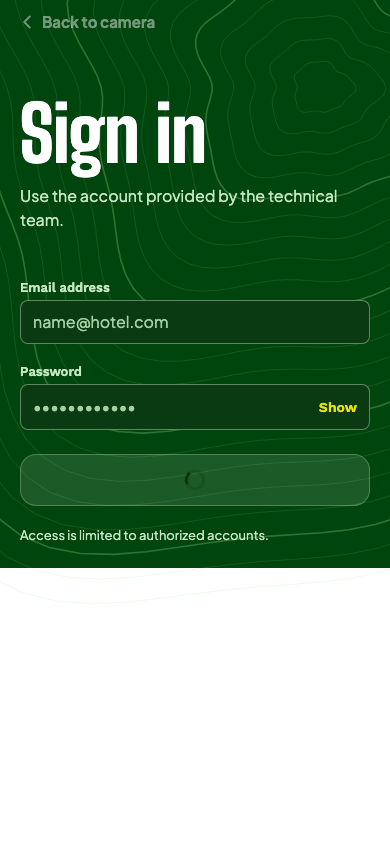
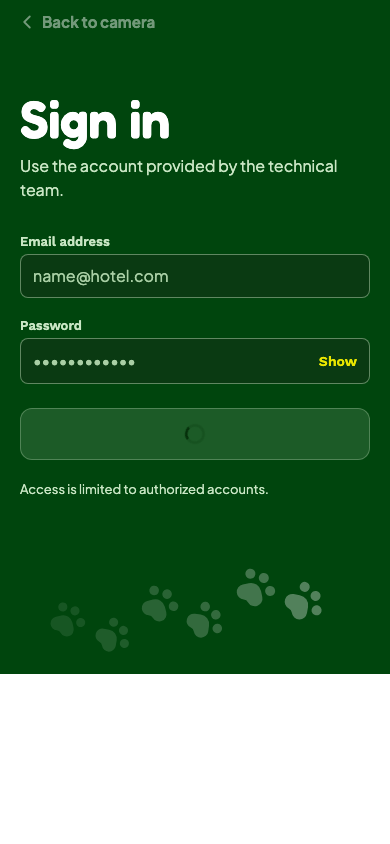
style(design): TD-134 Login con tipografía Fredoka y rastro de huellas hacia arriba
Fredoka para título y botón, rastro de huellas en el espacio inferior con puntas hacia arriba, esquinas del botón a 12. Se retira Big Shoulders y ContourBackdrop.

diff --git a/screens/loginScreen.js b/screens/loginScreen.js
@@ -8,7 +8,7 @@ import { useEffect, useState } from "react";
 import { useTranslation } from "react-i18next";
 import { Keyboard, KeyboardAvoidingView, Platform, Pressable, ScrollView, StyleSheet, Text, View } from "react-native";
 import { SafeAreaView } from "react-native-safe-area-context";
-import { AppButton, AppTextField, Banner, ContourBackdrop, Icon, StateView } from "../components/ui/index.js";
+import { AppButton, AppTextField, Banner, Icon, PawTrail, StateView } from "../components/ui/index.js";
 import { colors, fontFamily, layout, spacing, type } from "../theme/index.js";
 
 /**
@@ -42,7 +42,6 @@ export default function LoginScreen({ onLogin, onBack, error, pending, loading }
 
   return (
     <SafeAreaView edges={["top"]} style={styles.safeArea}>
-      <ContourBackdrop />
       <KeyboardAvoidingView behavior={Platform.OS === "ios" ? "padding" : undefined} style={styles.container}>
         {onBack && !loading ? (
           <Pressable
@@ -119,6 +118,11 @@ export default function LoginScreen({ onLogin, onBack, error, pending, loading }
               <Text style={styles.footer}>{t("login.footer")}</Text>
             </View>
           )}
+          {keyboardOpen ? null : (
+            <View style={styles.trail}>
+              <PawTrail />
+            </View>
+          )}
         </ScrollView>
       </KeyboardAvoidingView>
     </SafeAreaView>
@@ -132,15 +136,16 @@ const styles = StyleSheet.create({
   backText: { ...type.button, fontSize: 15, color: colors.onPrimary },
   pressed: { opacity: 0.7 },
   disabled: { opacity: 0.45 },
-  content: { flexGrow: 1, justifyContent: "flex-start", gap: spacing.xxxl + spacing.lg, paddingTop: spacing.xxl, paddingBottom: spacing.xxl },
+  content: { flexGrow: 1, justifyContent: "flex-start", gap: spacing.xxxl, paddingTop: spacing.xxl, paddingBottom: spacing.xxl },
   heading: { gap: spacing.xs, paddingTop: spacing.xl },
-  title: { fontFamily: fontFamily.display, fontSize: 76, lineHeight: 92, letterSpacing: -0.5, color: colors.onPrimary },
-  titleCompact: { fontSize: 48, lineHeight: 60 },
+  title: { fontFamily: fontFamily.display, fontSize: 52, lineHeight: 62, letterSpacing: -0.5, color: colors.onPrimary },
+  titleCompact: { fontSize: 36, lineHeight: 44 },
   subtitle: { ...type.body, color: colors.onForest, maxWidth: 320 },
   form: { gap: spacing.xl },
   toggle: { minHeight: layout.minTouch, justifyContent: "center", paddingLeft: spacing.sm },
   toggleText: { color: colors.signal, fontSize: 14 },
-  submit: { marginTop: spacing.xs },
+  submit: { marginTop: spacing.xs, borderRadius: 12 },
   footer: { ...type.caption, color: colors.onForest, textAlign: "left" },
+  trail: { flex: 1, minHeight: 120 },
   loading: { alignItems: "flex-start", paddingHorizontal: 0 },
 });

diff --git a/tests/ui/configuration-entry.jsx b/tests/ui/configuration-entry.jsx
@@ -23,13 +23,14 @@ import semibold from '@expo-google-fonts/plus-jakarta-sans/600SemiBold/PlusJakar
 import workMedium from '@expo-google-fonts/work-sans/500Medium/WorkSans_500Medium.ttf';
 import workSemibold from '@expo-google-fonts/work-sans/600SemiBold/WorkSans_600SemiBold.ttf';
 import workBold from '@expo-google-fonts/work-sans/700Bold/WorkSans_700Bold.ttf';
-import bigShoulders from '@expo-google-fonts/big-shoulders-display/BigShouldersDisplay_800ExtraBold.ttf';
+import fredokaMedium from '@expo-google-fonts/fredoka/500Medium/Fredoka_500Medium.ttf';
+import fredokaSemibold from '@expo-google-fonts/fredoka/600SemiBold/Fredoka_600SemiBold.ttf';
 import UiKitFixture from './ui-kit-fixture.jsx';
 
 if (new URLSearchParams(location.search).has('association-preview')) i18n.changeLanguage('es');
 
 const fonts = document.createElement('style');
-fonts.textContent = `@font-face{font-family:PlusJakartaSans_400Regular;src:url(${regular})} @font-face{font-family:PlusJakartaSans_700Bold;src:url(${bold})} @font-face{font-family:PlusJakartaSans_600SemiBold;src:url(${semibold})} @font-face{font-family:WorkSans_500Medium;src:url(${workMedium})} @font-face{font-family:WorkSans_600SemiBold;src:url(${workSemibold})} @font-face{font-family:WorkSans_700Bold;src:url(${workBold})} @font-face{font-family:BigShouldersDisplay_800ExtraBold;src:url(${bigShoulders})}`;
+fonts.textContent = `@font-face{font-family:PlusJakartaSans_400Regular;src:url(${regular})} @font-face{font-family:PlusJakartaSans_700Bold;src:url(${bold})} @font-face{font-family:PlusJakartaSans_600SemiBold;src:url(${semibold})} @font-face{font-family:WorkSans_500Medium;src:url(${workMedium})} @font-face{font-family:WorkSans_600SemiBold;src:url(${workSemibold})} @font-face{font-family:WorkSans_700Bold;src:url(${workBold})} @font-face{font-family:Fredoka_500Medium;src:url(${fredokaMedium})} @font-face{font-family:Fredoka_600SemiBold;src:url(${fredokaSemibold})}`;
 document.head.appendChild(fonts);
 
 const previewReport = (id, incident, sighting, details, color, size, collar, acceptedAt) => ({

diff --git a/components/ui/AppButton.js b/components/ui/AppButton.js
@@ -4,13 +4,13 @@
  * Loading and disabled block presses immediately (the double-tap guard the screens rely on).
  */
 import { ActivityIndicator, Pressable, StyleSheet, Text } from 'react-native';
-import { colors, layout, radius, spacing, type } from '../../theme/index.js';
+import { colors, fontFamily, layout, radius, spacing, type } from '../../theme/index.js';
 
 const variants = {
   primary: { bg: colors.primary, fg: colors.onPrimary, border: colors.primary },
   secondary: { bg: colors.surface, fg: colors.primary, border: colors.outlineSoft },
   ghost: { bg: colors.transparent, fg: colors.primary, border: colors.transparent },
-  signal: { bg: colors.signal, fg: colors.forestDeep, border: colors.signal, offBg: 'rgba(201,230,196,0.14)', offFg: colors.onForestSubtle, offBorder: 'rgba(201,230,196,0.3)' },
+  signal: { display: true, bg: colors.signal, fg: colors.forestDeep, border: colors.signal, offBg: 'rgba(201,230,196,0.14)', offFg: colors.onForestSubtle, offBorder: 'rgba(201,230,196,0.3)' },
   glass: { bg: 'rgba(255,255,255,0.14)', fg: colors.onPrimary, border: 'rgba(255,255,255,0.45)' },
   destructive: { bg: colors.surface, fg: colors.danger, border: colors.danger },
 };
@@ -45,7 +45,7 @@ export default function AppButton({ title, onPress, variant = 'primary', size = 
         style,
       ]}
     >
-      {loading ? <ActivityIndicator color={tone.fg} /> : <Text style={[type.button, { color: blocked && tone.offFg ? tone.offFg : tone.fg }]}>{title}</Text>}
+      {loading ? <ActivityIndicator color={tone.fg} /> : <Text style={[type.button, tone.display && { fontFamily: fontFamily.displayMedium, fontSize: 19 }, { color: blocked && tone.offFg ? tone.offFg : tone.fg }]}>{title}</Text>}
     </Pressable>
   );
 }

diff --git a/components/ui/PawTrail.js b/components/ui/PawTrail.js
@@ -1,0 +1,32 @@
+/**
+ * @module components/ui/PawTrail
+ * A trail of paw prints walking across the empty space below the form (decorative, hidden from accessibility). Prints alternate
+ * left and right like a real stride and fade out toward the end of the trail.
+ */
+import { memo } from 'react';
+import { StyleSheet, View } from 'react-native';
+import { PawPrint } from 'lucide-react-native';
+
+// Positions are percentages of the container: a stride heading up and to the right with toes up, growing clearer.
+const steps = [
+  { top: '58%', left: '8%', rotate: '-12deg', size: 38, opacity: 0.09 },
+  { top: '72%', left: '21%', rotate: '10deg', size: 38, opacity: 0.12 },
+  { top: '44%', left: '34%', rotate: '-14deg', size: 40, opacity: 0.16 },
+  { top: '58%', left: '47%', rotate: '8deg', size: 40, opacity: 0.2 },
+  { top: '30%', left: '61%', rotate: '-12deg', size: 42, opacity: 0.26 },
+  { top: '42%', left: '75%', rotate: '10deg', size: 42, opacity: 0.32 },
+];
+
+function PawTrail({ color = '#ffffff', style }) {
+  return (
+    <View pointerEvents="none" accessible={false} aria-hidden importantForAccessibility="no" style={[StyleSheet.absoluteFill, style]}>
+      {steps.map((step, i) => (
+        <View key={i} style={{ position: 'absolute', top: step.top, left: step.left, opacity: step.opacity, transform: [{ rotate: step.rotate }] }}>
+          <PawPrint size={step.size} color={color} strokeWidth={1.75} fill={color} />
+        </View>
+      ))}
+    </View>
+  );
+}
+
+export default memo(PawTrail);

diff --git a/theme/fonts.js b/theme/fonts.js
@@ -9,7 +9,8 @@ import { PlusJakartaSans_700Bold } from '@expo-google-fonts/plus-jakarta-sans/70
 import { WorkSans_500Medium } from '@expo-google-fonts/work-sans/500Medium';
 import { WorkSans_600SemiBold } from '@expo-google-fonts/work-sans/600SemiBold';
 import { WorkSans_700Bold } from '@expo-google-fonts/work-sans/700Bold';
-import BigShouldersDisplay_800ExtraBold from '@expo-google-fonts/big-shoulders-display/BigShouldersDisplay_800ExtraBold.ttf';
+import { Fredoka_500Medium } from '@expo-google-fonts/fredoka/500Medium';
+import { Fredoka_600SemiBold } from '@expo-google-fonts/fredoka/600SemiBold';
 
 export const fontAssets = {
   PlusJakartaSans_400Regular,
@@ -18,7 +19,8 @@ export const fontAssets = {
   WorkSans_500Medium,
   WorkSans_600SemiBold,
   WorkSans_700Bold,
-  BigShouldersDisplay_800ExtraBold,
+  Fredoka_500Medium,
+  Fredoka_600SemiBold,
 };
 
 export const fontFamily = {
@@ -28,5 +30,6 @@ export const fontFamily = {
   labelMedium: 'WorkSans_500Medium',
   label: 'WorkSans_600SemiBold',
   number: 'WorkSans_700Bold',
-  display: 'BigShouldersDisplay_800ExtraBold', // signage-style condensed display, titles only
+  display: 'Fredoka_600SemiBold', // friendly rounded display: titles
+  displayMedium: 'Fredoka_500Medium', // friendly rounded display: key buttons
 };

diff --git a/components/ui/index.js b/components/ui/index.js
@@ -9,4 +9,4 @@ export { default as Banner } from './Banner.js';
 export { default as Sheet } from './Sheet.js';
 export { default as ScreenHeader } from './ScreenHeader.js';
 export { default as StateView } from './StateView.js';
-export { default as ContourBackdrop } from './ContourBackdrop.js';
+export { default as PawTrail } from './PawTrail.js';
